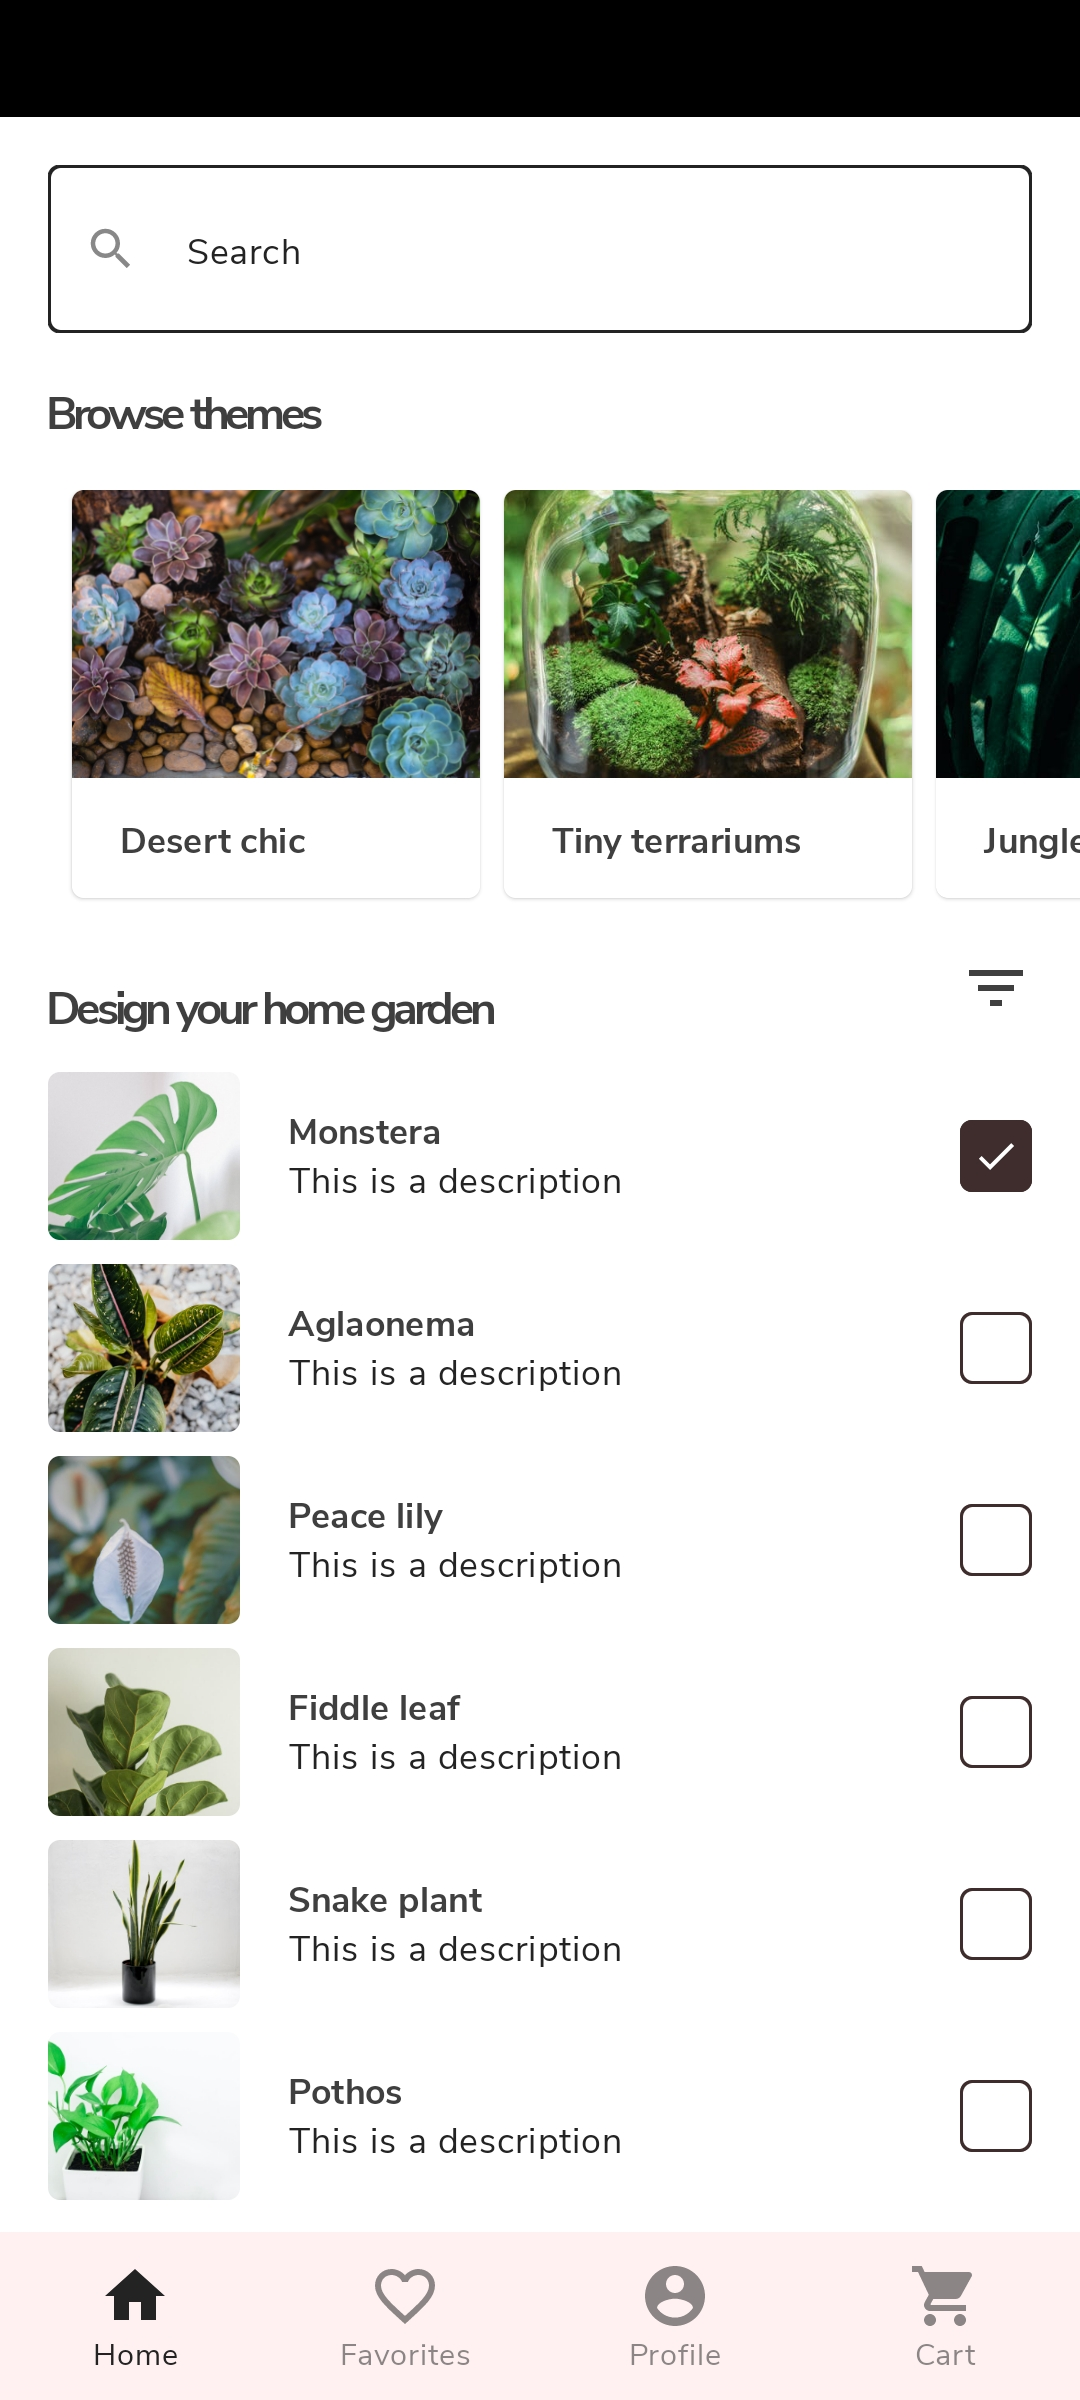
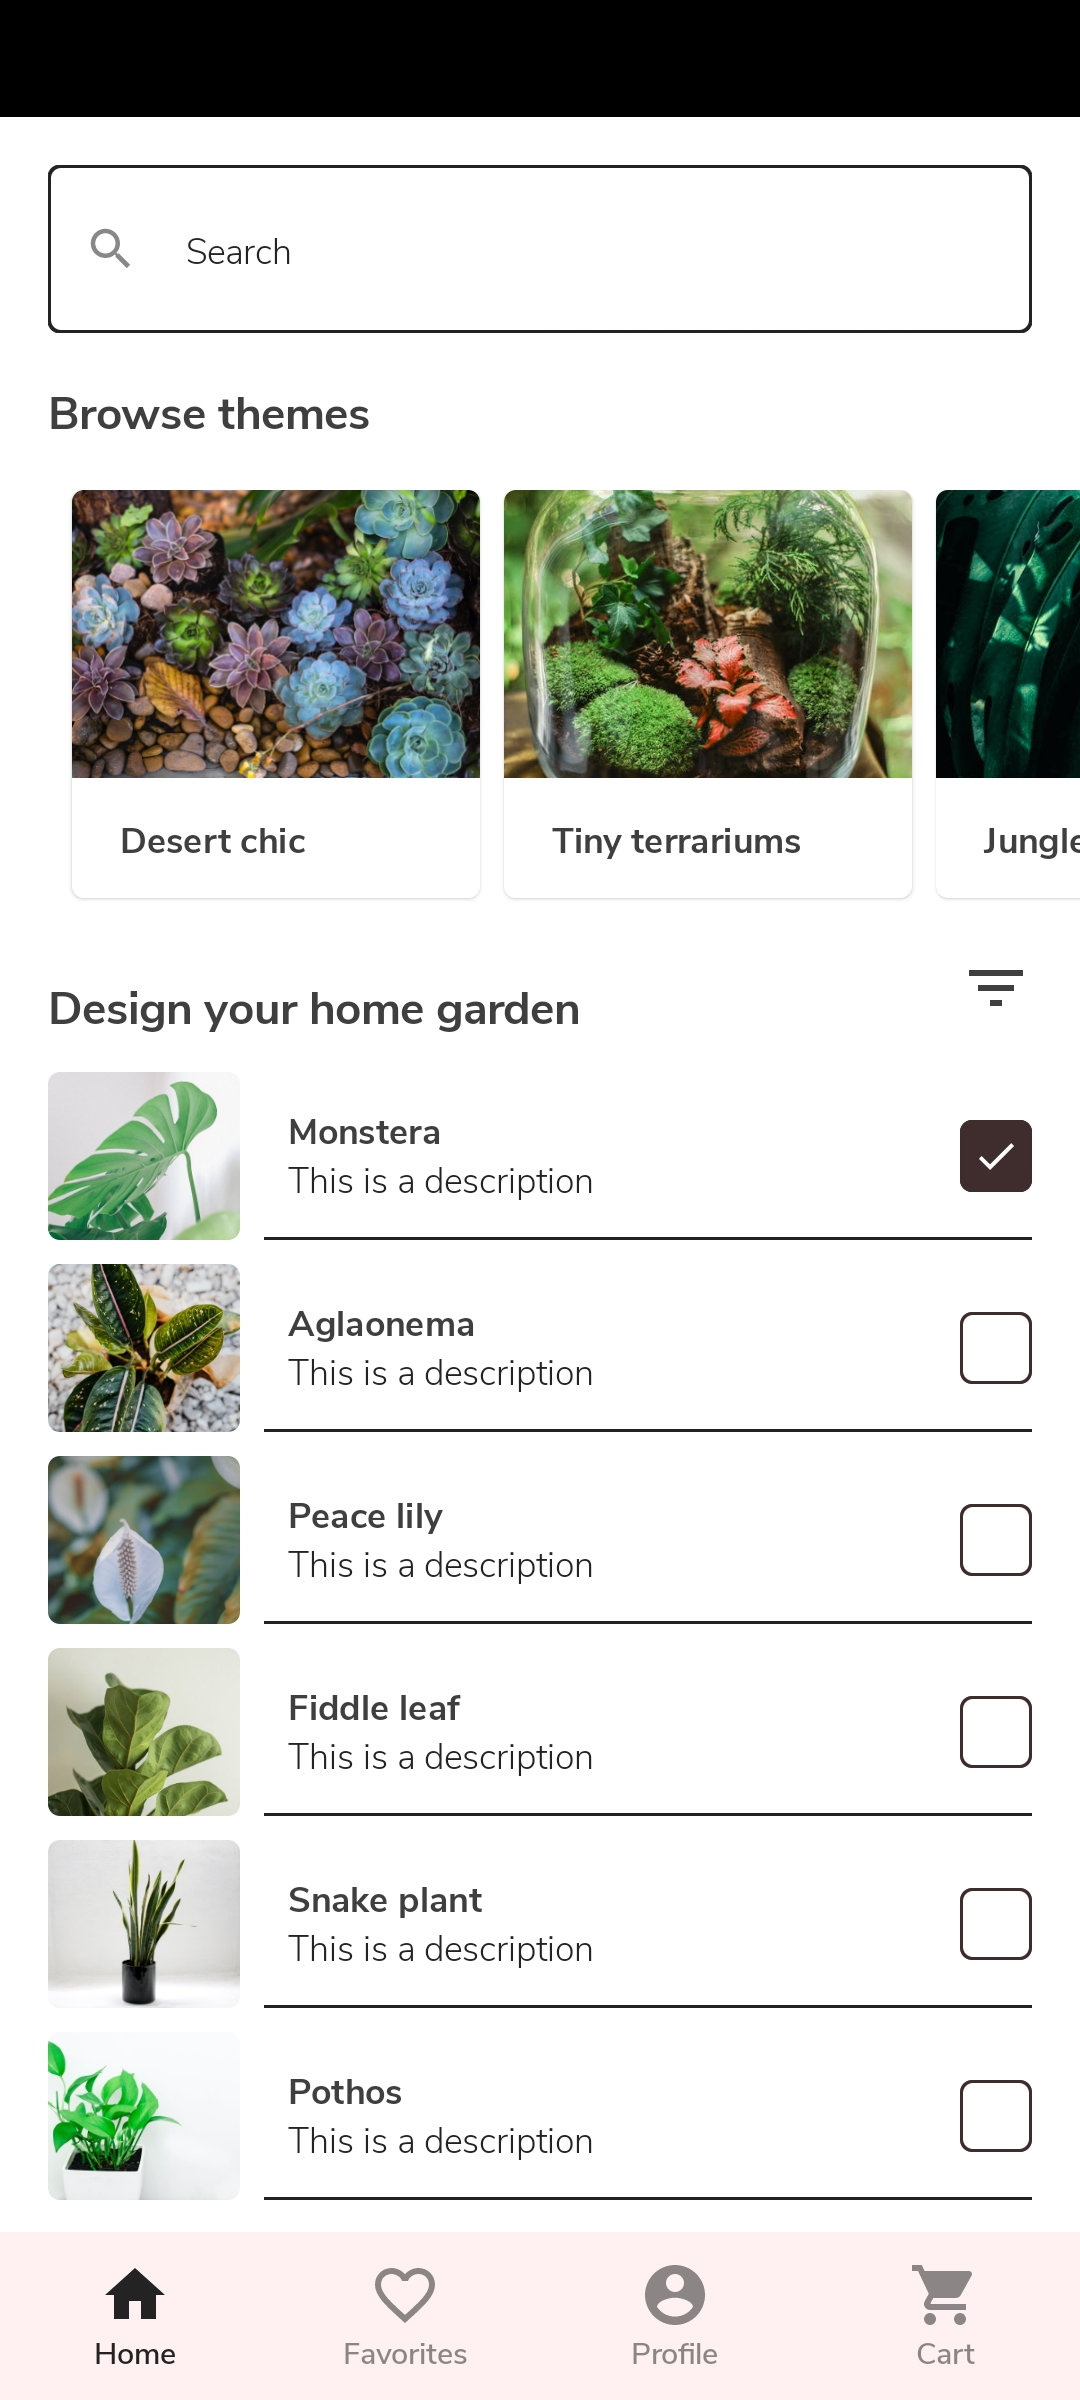
Screenshots changed

diff --git a/app/src/main/java/com/example/androiddevchallenge/ui/theme/Type.kt b/app/src/main/java/com/example/androiddevchallenge/ui/theme/Type.kt
@@ -125,17 +125,17 @@ private val appFontFamily = FontFamily(
 
 private val defaultTypography = Typography()
 val appTypography = Typography(
-    h1 = defaultTypography.h1.copy(fontFamily = appFontFamily, fontSize = 18.sp, fontWeight = FontWeight.Bold),
-    h2 = defaultTypography.h2.copy(fontFamily = appFontFamily, fontSize = 14.sp, letterSpacing = 0.15.sp, fontWeight = FontWeight.Bold),
+    h1 = defaultTypography.h1.copy(fontFamily = appFontFamily, fontSize = 18.sp, letterSpacing = 0.sp, fontWeight = FontWeight.Bold, fontStyle = FontStyle.Normal),
+    h2 = defaultTypography.h2.copy(fontFamily = appFontFamily, fontSize = 14.sp, letterSpacing = 0.15.sp, fontWeight = FontWeight.Bold, fontStyle = FontStyle.Normal),
     h3 = defaultTypography.h3.copy(fontFamily = appFontFamily),
     h4 = defaultTypography.h4.copy(fontFamily = appFontFamily),
     h5 = defaultTypography.h5.copy(fontFamily = appFontFamily),
     h6 = defaultTypography.h6.copy(fontFamily = appFontFamily),
-    subtitle1 = defaultTypography.subtitle1.copy(fontFamily = appFontFamily, fontSize = 16.sp),
+    subtitle1 = defaultTypography.subtitle1.copy(fontFamily = appFontFamily, fontSize = 16.sp, letterSpacing = 0.sp, fontStyle = FontStyle.Normal, fontWeight = FontWeight.Light),
     subtitle2 = defaultTypography.subtitle2.copy(fontFamily = appFontFamily),
-    body1 = defaultTypography.body1.copy(fontFamily = appFontFamily, fontSize = 14.sp),
-    body2 = defaultTypography.body2.copy(fontFamily = appFontFamily, fontSize = 12.sp),
-    button = defaultTypography.button.copy(fontFamily = appFontFamily, fontSize = 14.sp, letterSpacing = 1.sp),
-    caption = defaultTypography.caption.copy(fontFamily = appFontFamily, fontSize = 12.sp),
+    body1 = defaultTypography.body1.copy(fontFamily = appFontFamily, fontSize = 14.sp, letterSpacing = 0.sp, fontStyle = FontStyle.Normal, fontWeight = FontWeight.Light),
+    body2 = defaultTypography.body2.copy(fontFamily = appFontFamily, fontSize = 12.sp, letterSpacing = 0.sp, fontStyle = FontStyle.Normal, fontWeight = FontWeight.Light),
+    button = defaultTypography.button.copy(fontFamily = appFontFamily, fontSize = 14.sp, letterSpacing = 1.sp, fontStyle = FontStyle.Normal, fontWeight = FontWeight.SemiBold),
+    caption = defaultTypography.caption.copy(fontFamily = appFontFamily, fontSize = 12.sp, letterSpacing = 0.sp, fontStyle = FontStyle.Normal, fontWeight = FontWeight.SemiBold),
     overline = defaultTypography.overline.copy(fontFamily = appFontFamily)
 )
